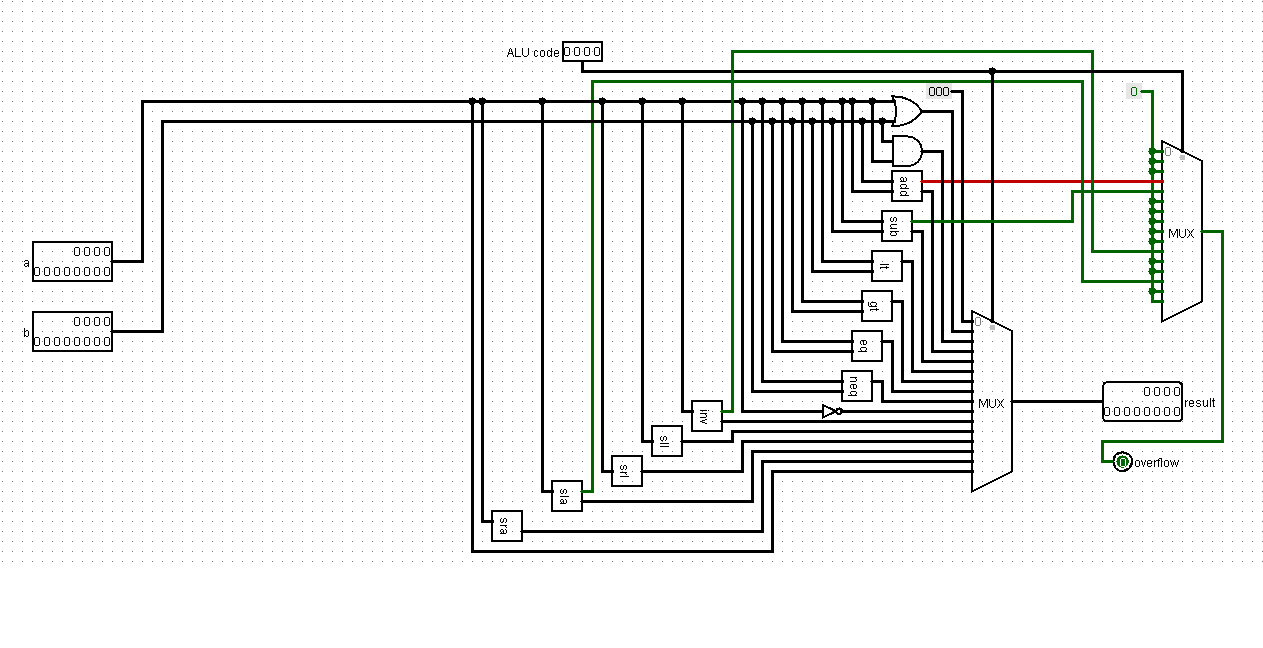
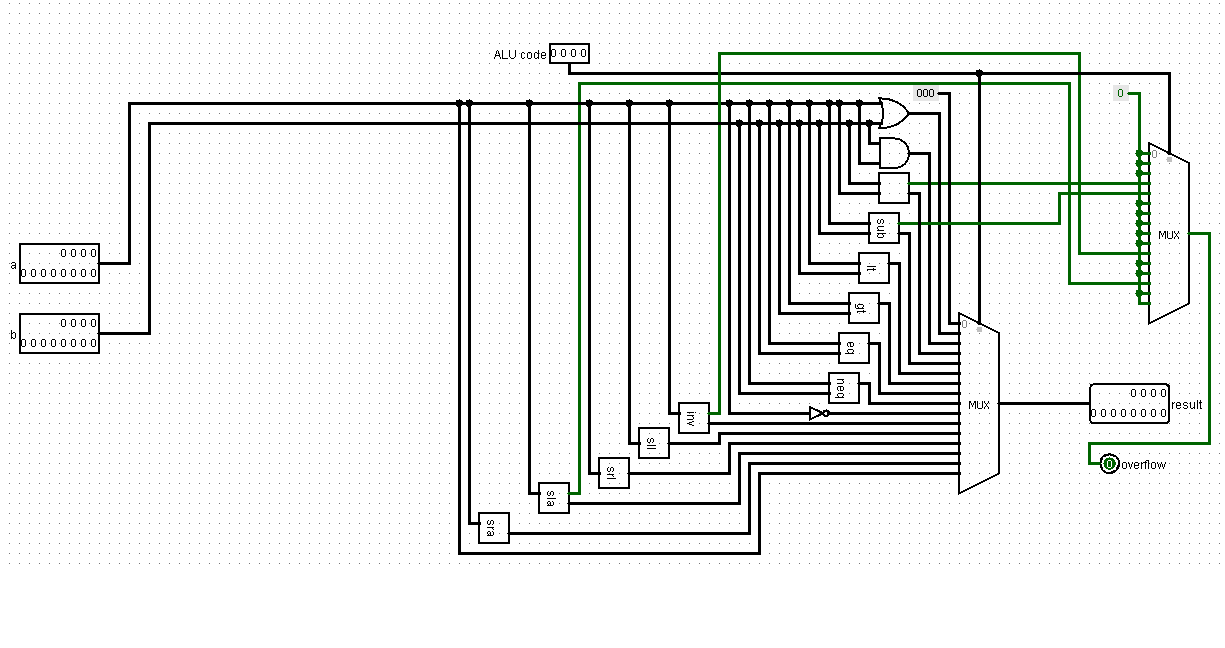
Final update verslag 3

Changed region(s): [[0.0, 0.0617, 0.9927, 0.8642]]

diff --git a/Verslagen/verslag.project3.html b/Verslagen/verslag.project3.html
@@ -135,6 +135,9 @@
 <p>
     De ALU ziet er als volgt uit.<br />
     <img src="ALU.png" alt=""><br />
+    Links worden alle operaties uitgevoerd. Rechts vinden we de twee ALU's. De linkse van de 2 geeft juiste output door.
+    De rechtse ALU zorgt ervoor dat de juiste overflow wordt doorgegeven. Voor operaties waarbij geen overflow kan voorkomen wordt
+    een constante 0 doorgegeven.
 </p>
 
 </body>
